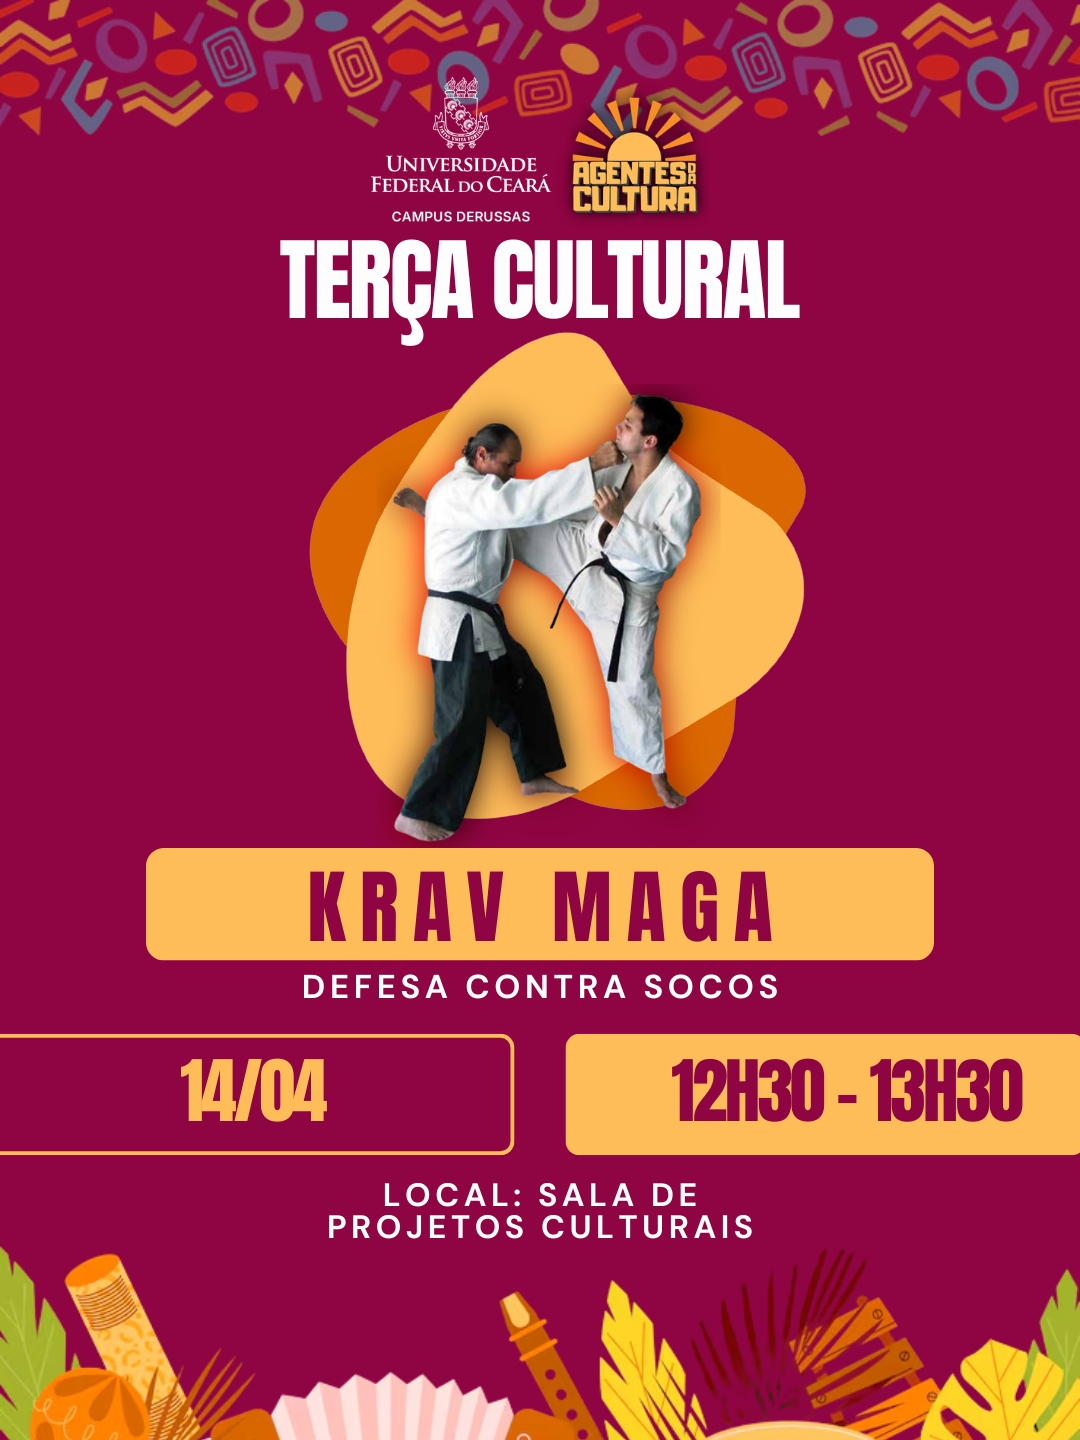
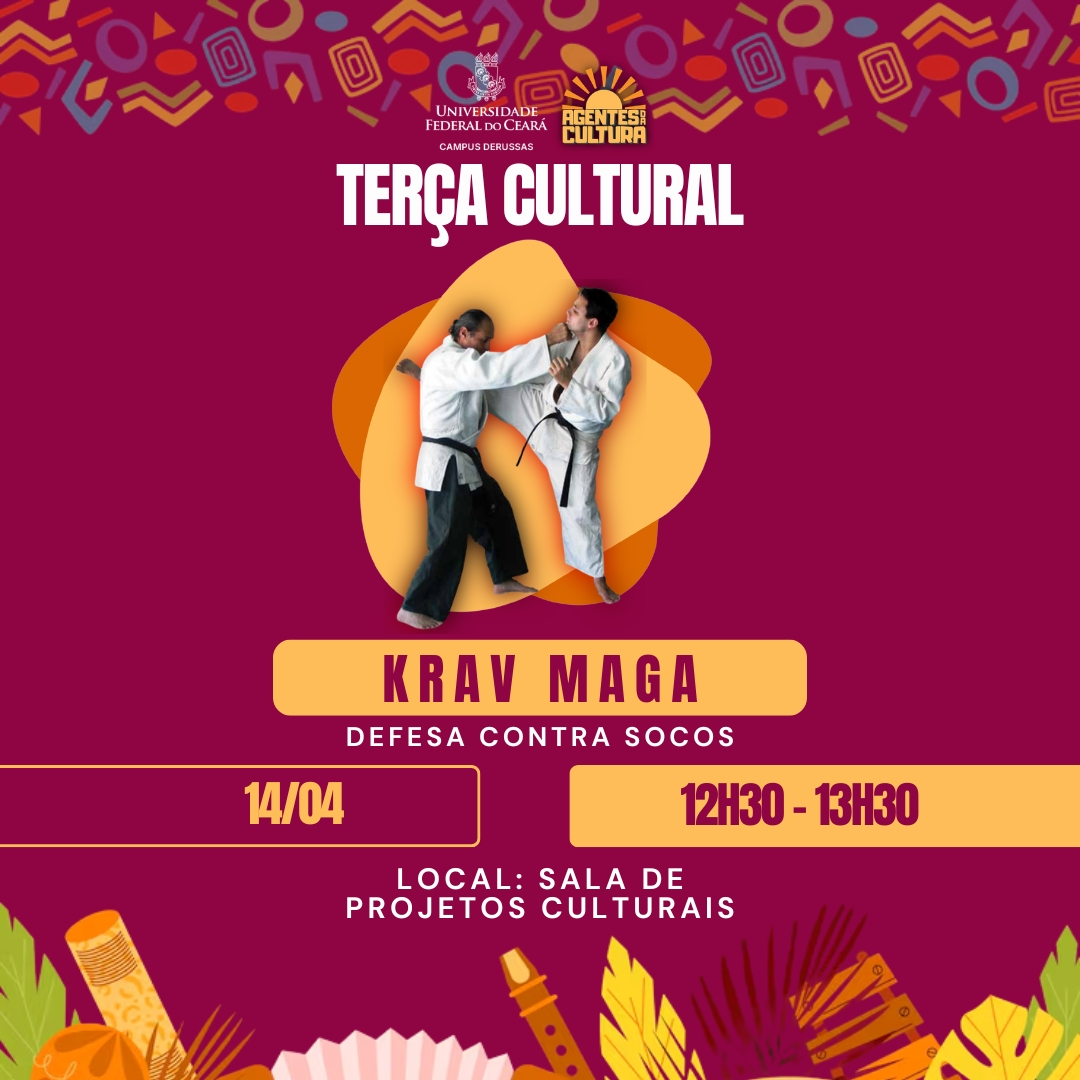
Update Midia

Changed region(s): [[0.0, 0.0, 1.0, 1.0]]

diff --git a/index.html b/index.html
@@ -118,13 +118,13 @@
               <p>Criei a identidade visual e a nova logo do Centro Acadêmico de Engenharia de Software.</p>
             </div>
           </div>
-          <div class="projeto">
-            <div class="imagem-projeto" style="background-image: url('midia/19.jpg');"></div>
-            <div class="overlay">
-              <h3 class="titulo-bloco">ARTE PARA EVENTO</h3>
-              <p>Arte para evento universitário seguindo a identidade visual criada por mim.</p>
+            <div class="projeto">
+              <div class="imagem-projeto" style="background-image: url('midia/19.jpg');"></div>
+              <div class="overlay">
+                <h3 class="titulo-bloco">ARTE PARA EVENTO</h3>
+                <p>Arte para evento universitário seguindo a identidade visual criada por mim.</p>
+              </div>
             </div>
-          </div>
           <div class="projeto">
             <div class="imagem-projeto" style="background-image: url('midia/1.png');"></div>
             <div class="overlay">